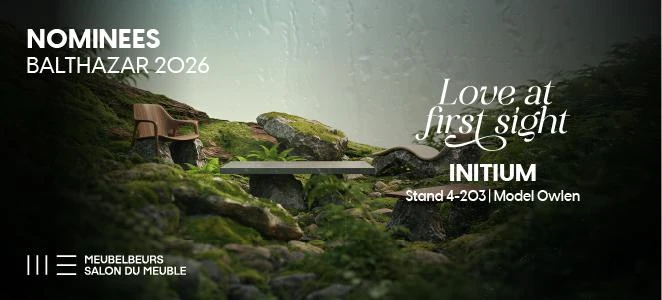
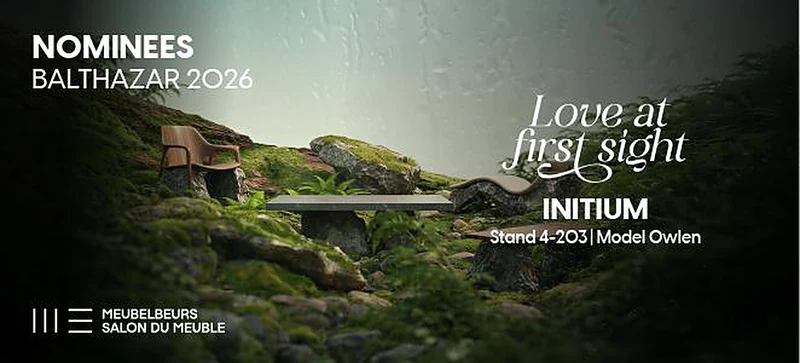
Bandeau Balthazar agrandi x2 (plus net sur grand ecran)

diff --git a/nl/nieuws/index.html b/nl/nieuws/index.html
@@ -56,7 +56,7 @@
     <p>Dank aan de jury, aan de organisatoren van de beurs en aan iedereen die onze stukken kwam ontdekken.</p>
     <a class="lien-maj" href="../../nl/collectie/#olwen">Ontdek Olwen</a>
   </div>
-  <div class="article-photos une-paysage"><figure class="article-une"><img src="../../photos/n-affiche.webp" alt="Initium³ laureaat van de Brussels Balthazar 2026" width="662" height="300" loading="lazy" decoding="async"></figure><figure class=""><img src="../../photos/n-podium.webp" alt="" width="1114" height="1600" loading="lazy" decoding="async"></figure><figure class=""><img src="../../photos/n-trophee-800.webp" alt="" width="900" height="1600" loading="lazy" decoding="async"></figure><figure class=""><img src="../../photos/n-salle-800.webp" alt="" width="1536" height="2048" loading="lazy" decoding="async"></figure></div>
+  <div class="article-photos une-paysage"><figure class="article-une"><img src="../../photos/n-affiche.webp" alt="Initium³ laureaat van de Brussels Balthazar 2026" width="1324" height="600" loading="lazy" decoding="async"></figure><figure class=""><img src="../../photos/n-podium.webp" alt="" width="1114" height="1600" loading="lazy" decoding="async"></figure><figure class=""><img src="../../photos/n-trophee-800.webp" alt="" width="900" height="1600" loading="lazy" decoding="async"></figure><figure class=""><img src="../../photos/n-salle-800.webp" alt="" width="1536" height="2048" loading="lazy" decoding="async"></figure></div>
   
 </article>
 <article class="article" id="salon-meuble-2026">

diff --git a/en/news/index.html b/en/news/index.html
@@ -56,7 +56,7 @@
     <p>Thank you to the jury, to the fair organisers and to everyone who came to discover our pieces.</p>
     <a class="lien-maj" href="../../en/collection/#olwen">Discover Olwen</a>
   </div>
-  <div class="article-photos une-paysage"><figure class="article-une"><img src="../../photos/n-affiche.webp" alt="Initium³ laureate of the Brussels Balthazar 2026" width="662" height="300" loading="lazy" decoding="async"></figure><figure class=""><img src="../../photos/n-podium.webp" alt="" width="1114" height="1600" loading="lazy" decoding="async"></figure><figure class=""><img src="../../photos/n-trophee-800.webp" alt="" width="900" height="1600" loading="lazy" decoding="async"></figure><figure class=""><img src="../../photos/n-salle-800.webp" alt="" width="1536" height="2048" loading="lazy" decoding="async"></figure></div>
+  <div class="article-photos une-paysage"><figure class="article-une"><img src="../../photos/n-affiche.webp" alt="Initium³ laureate of the Brussels Balthazar 2026" width="1324" height="600" loading="lazy" decoding="async"></figure><figure class=""><img src="../../photos/n-podium.webp" alt="" width="1114" height="1600" loading="lazy" decoding="async"></figure><figure class=""><img src="../../photos/n-trophee-800.webp" alt="" width="900" height="1600" loading="lazy" decoding="async"></figure><figure class=""><img src="../../photos/n-salle-800.webp" alt="" width="1536" height="2048" loading="lazy" decoding="async"></figure></div>
   
 </article>
 <article class="article" id="salon-meuble-2026">

diff --git a/news/index.html b/news/index.html
@@ -56,7 +56,7 @@
     <p>Merci au jury, aux organisateurs du salon et à toutes celles et ceux qui sont venus découvrir nos pièces.</p>
     <a class="lien-maj" href="../collection/#olwen">Découvrir Olwen</a>
   </div>
-  <div class="article-photos une-paysage"><figure class="article-une"><img src="../photos/n-affiche.webp" alt="Initium³ lauréat des Brussels Balthazar 2026" width="662" height="300" loading="lazy" decoding="async"></figure><figure class=""><img src="../photos/n-podium.webp" alt="" width="1114" height="1600" loading="lazy" decoding="async"></figure><figure class=""><img src="../photos/n-trophee-800.webp" alt="" width="900" height="1600" loading="lazy" decoding="async"></figure><figure class=""><img src="../photos/n-salle-800.webp" alt="" width="1536" height="2048" loading="lazy" decoding="async"></figure></div>
+  <div class="article-photos une-paysage"><figure class="article-une"><img src="../photos/n-affiche.webp" alt="Initium³ lauréat des Brussels Balthazar 2026" width="1324" height="600" loading="lazy" decoding="async"></figure><figure class=""><img src="../photos/n-podium.webp" alt="" width="1114" height="1600" loading="lazy" decoding="async"></figure><figure class=""><img src="../photos/n-trophee-800.webp" alt="" width="900" height="1600" loading="lazy" decoding="async"></figure><figure class=""><img src="../photos/n-salle-800.webp" alt="" width="1536" height="2048" loading="lazy" decoding="async"></figure></div>
   
 </article>
 <article class="article" id="salon-meuble-2026">

diff --git a/nl/index.html b/nl/index.html
@@ -56,7 +56,7 @@
   </div>
   <div class="evts-piste" data-piste>
     <div class="evt">
-      <figure class="distinction-affiche paysage reveler"><img src="../photos/n-affiche-800.webp" alt="Nominees Balthazar 2026, Love at first sight, Initium, stand 4-203" width="662" height="300" loading="lazy" decoding="async"></figure>
+      <figure class="distinction-affiche paysage reveler"><img src="../photos/n-affiche-800.webp" alt="Nominees Balthazar 2026, Love at first sight, Initium, stand 4-203" width="1324" height="600" loading="lazy" decoding="async"></figure>
       <div class="distinction-texte reveler">
         <p class="distinction-eyebrow">Brussels Balthazar 2026 · Meubelbeurs Brussel</p>
         <h3>3de plaats, categorie « Liefde op het eerste gezicht »</h3>

diff --git a/en/index.html b/en/index.html
@@ -56,7 +56,7 @@
   </div>
   <div class="evts-piste" data-piste>
     <div class="evt">
-      <figure class="distinction-affiche paysage reveler"><img src="../photos/n-affiche-800.webp" alt="Nominees Balthazar 2026, Love at first sight, Initium, stand 4-203" width="662" height="300" loading="lazy" decoding="async"></figure>
+      <figure class="distinction-affiche paysage reveler"><img src="../photos/n-affiche-800.webp" alt="Nominees Balthazar 2026, Love at first sight, Initium, stand 4-203" width="1324" height="600" loading="lazy" decoding="async"></figure>
       <div class="distinction-texte reveler">
         <p class="distinction-eyebrow">Brussels Balthazar 2026 · Brussels Furniture Fair</p>
         <h3>3rd place, « Love at first sight » category</h3>

diff --git a/index.html b/index.html
@@ -56,7 +56,7 @@
   </div>
   <div class="evts-piste" data-piste>
     <div class="evt">
-      <figure class="distinction-affiche paysage reveler"><img src="photos/n-affiche-800.webp" alt="Nominees Balthazar 2026, Love at first sight, Initium, stand 4-203" width="662" height="300" loading="lazy" decoding="async"></figure>
+      <figure class="distinction-affiche paysage reveler"><img src="photos/n-affiche-800.webp" alt="Nominees Balthazar 2026, Love at first sight, Initium, stand 4-203" width="1324" height="600" loading="lazy" decoding="async"></figure>
       <div class="distinction-texte reveler">
         <p class="distinction-eyebrow">Brussels Balthazar 2026 · Salon du Meuble de Bruxelles</p>
         <h3>3e place, catégorie « Coup de foudre »</h3>
